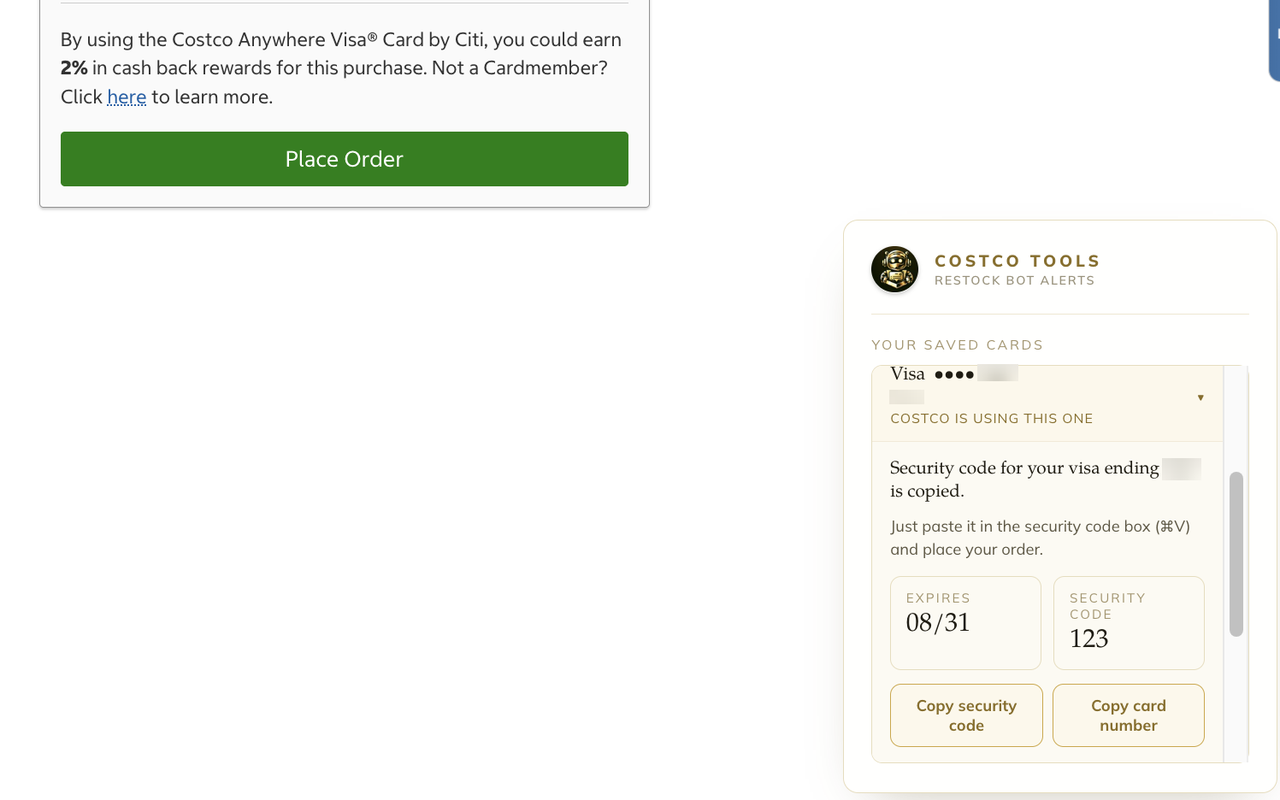
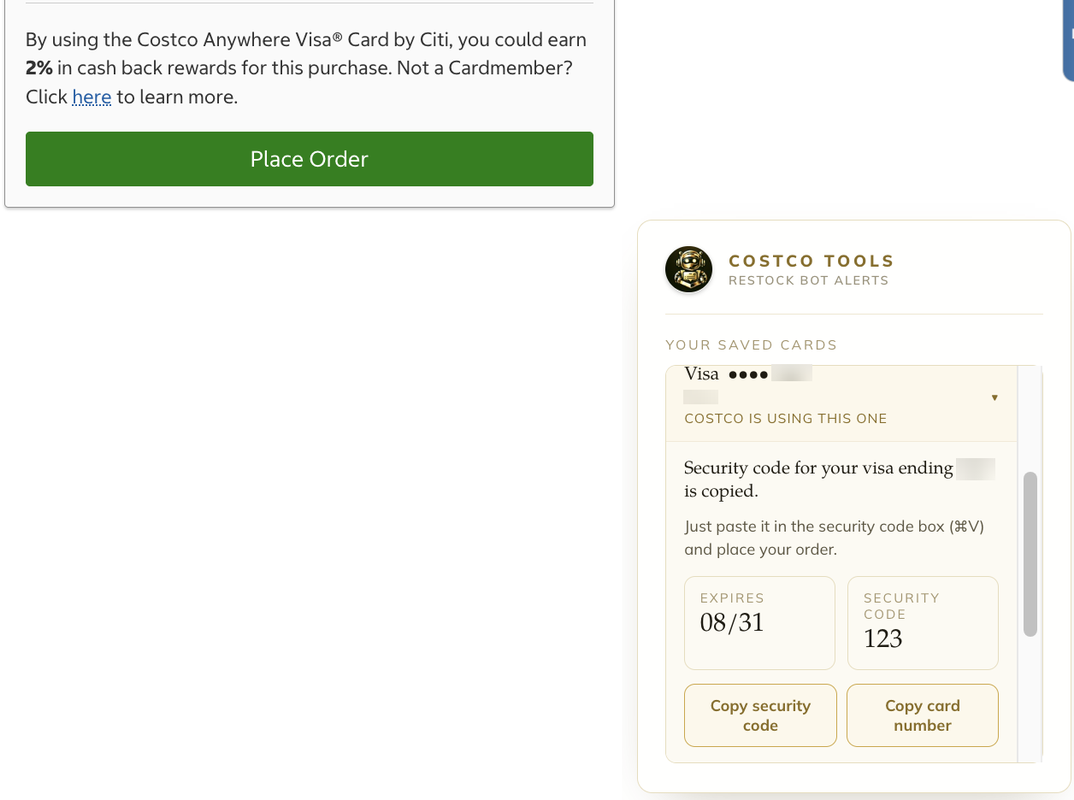
Extension page: match the Checkout row's two screenshots at 1074x800
Card vault: crop off the sliced filter sidebar. Checkout assist:
splice 206px of pure-white dead space out (left edge + the gap
between the Place Order card and the panel) so both images render
at the same width.

diff --git a/extension/index.html b/extension/index.html
@@ -301,8 +301,8 @@ body { margin:0; background:#1b1b1d; color:#f0f0f0; font-family:-apple-system,Bl
   <section data-sec="" style="padding:2.5rem 2rem;">
     <div data-row="" style="max-width:1180px;margin:auto;display:grid;grid-template-columns:1fr 1fr;gap:4rem;align-items:center;">
       <div data-row-media="" style="display:flex;flex-direction:column;gap:1rem;">
-        <img data-zoom="" src="assets/ext/03-card-vault.png" alt="The encrypted card vault, holding the cards you use for Costco orders" style="width:100%;display:block;border-radius:14px;border:0.75px solid rgba(255,138,61,0.25);box-shadow:0 8px 28px rgba(0,0,0,0.6);background:#262628;">
-        <img data-zoom="" src="assets/ext/07-checkout-assist.png" alt="At Costco's checkout, the extension recognises the card on file and copies the security code to your clipboard" style="width:100%;display:block;border-radius:14px;border:0.75px solid rgba(255,138,61,0.25);box-shadow:0 8px 28px rgba(0,0,0,0.6);background:#262628;">
+        <img data-zoom="" src="assets/ext/03-card-vault.png?v=2" alt="The encrypted card vault, holding the cards you use for Costco orders" style="width:100%;display:block;border-radius:14px;border:0.75px solid rgba(255,138,61,0.25);box-shadow:0 8px 28px rgba(0,0,0,0.6);background:#262628;">
+        <img data-zoom="" src="assets/ext/07-checkout-assist.png?v=2" alt="At Costco's checkout, the extension recognises the card on file and copies the security code to your clipboard" style="width:100%;display:block;border-radius:14px;border:0.75px solid rgba(255,138,61,0.25);box-shadow:0 8px 28px rgba(0,0,0,0.6);background:#262628;">
       </div>
       <div data-row-copy="">
         <div style="display:flex;align-items:baseline;gap:1rem;margin-bottom:1rem;">
